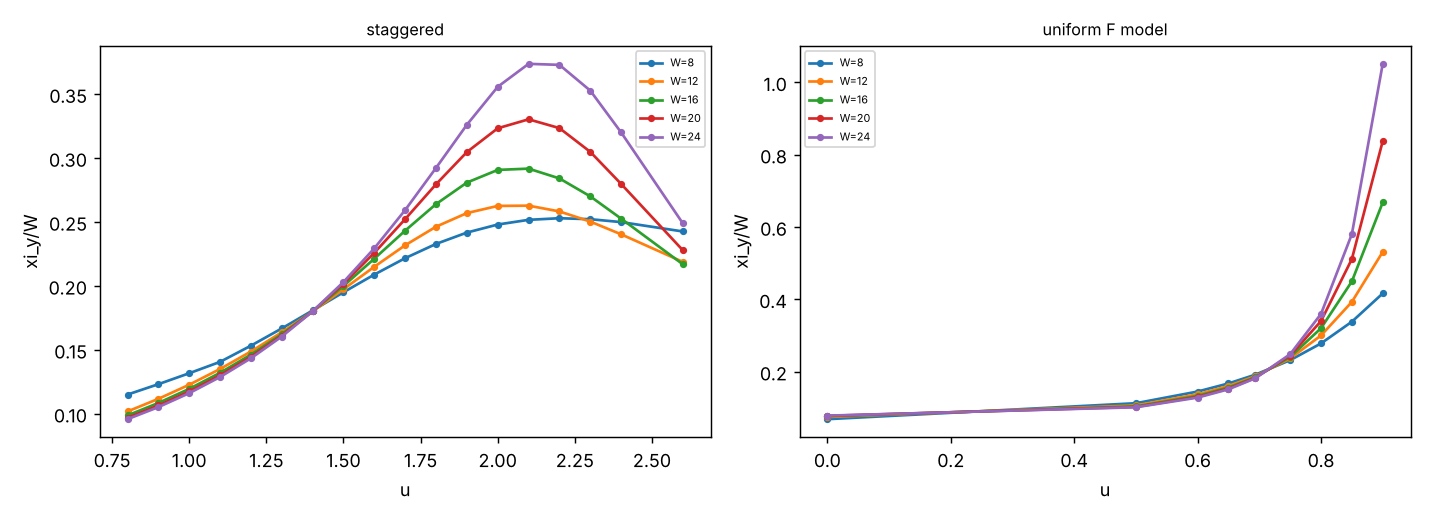
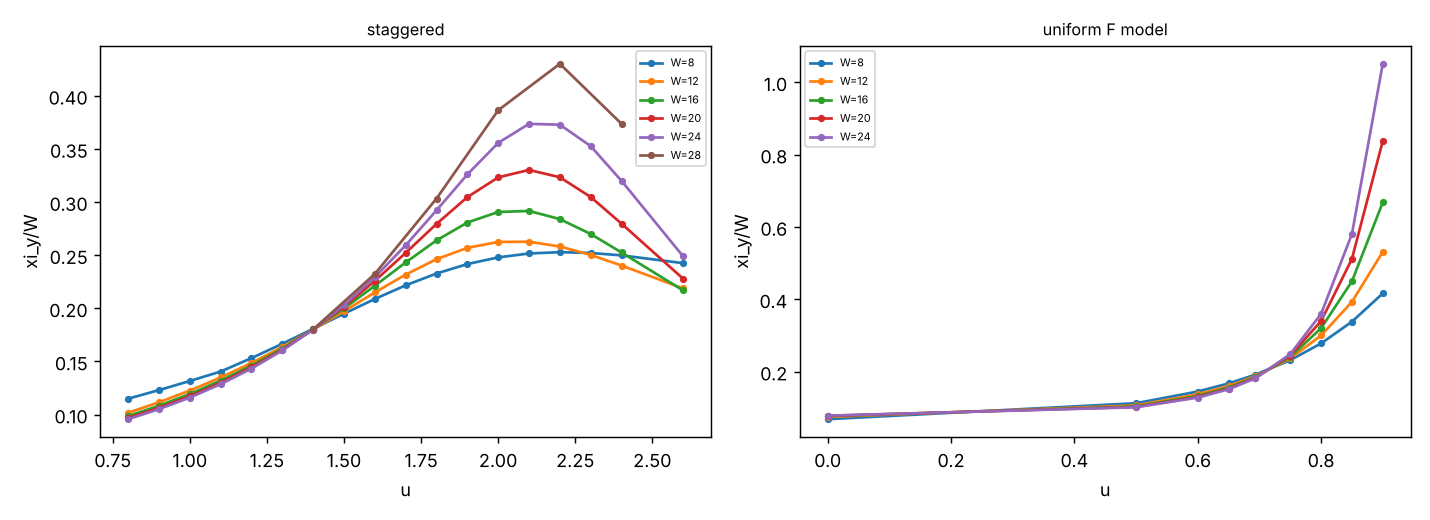
Task 2: final report REPORT_task2.md, summary figure, results
Claude-Session: https://claude.ai/code/session_01HKv2Aaebqgdpc73yJjZizT

diff --git a/task2/figs_tm.py b/task2/figs_tm.py
@@ -1,0 +1,41 @@
+#!/usr/bin/env python3
+"""Summary figure of the task-2 results -> results/summary.png"""
+import json, os
+import numpy as np
+import matplotlib; matplotlib.use("Agg")
+import matplotlib.pyplot as plt
+HERE = os.path.dirname(os.path.abspath(__file__))
+R = {}
+for l in open(os.path.join(HERE, "data", "results.jsonl")):
+    r = json.loads(l); R[(r["model"], r["W"], round(r["u"], 6), r["M"])] = r
+Ws = sorted({k[1] for k in R})
+def eig(m, W, u, M=0):
+    r = R.get((m, W, round(u, 6), M)); return None if r is None else np.abs(r["eig_re"])
+def x2(m, W, u):
+    a, b = eig(m, W, u, 0), eig(m, W, u, 2)
+    return None if a is None or b is None else W / (4 * np.pi) * np.log(a[0] / b[0])
+def xi(m, W, u):
+    a = eig(m, W, u, 0)
+    return None if a is None or len(a) < 2 or a[1] >= a[0] else -1 / np.log(a[1] / a[0])
+fig, ax = plt.subplots(2, 2, figsize=(11, 8))
+us = sorted({k[2] for k in R if k[0] == "stag" and k[3] == 2 and k[1] == 24 and k[2] <= 2.4})
+for W, c in zip(Ws, plt.cm.viridis(np.linspace(0, 0.9, len(Ws)))):
+    uu = [u for u in us if x2("stag", W, u) is not None]
+    ax[0, 0].plot(uu, [x2("stag", W, u) for u in uu], "o-", ms=3, color=c, label=f"W={W}")
+ax[0, 0].axhline(0.5, color="k", ls=":"); ax[0, 0].axvline(1.40, color="r", ls=":", lw=0.8)
+ax[0, 0].set_xlabel("u"); ax[0, 0].set_ylabel("x2(W,u)"); ax[0, 0].legend(fontsize=7); ax[0, 0].set_title("x2 = (W/4π) ln(Λ0/Λ2): W-independent for 1.4<u<~2", fontsize=9)
+ulist = [1.4, 1.6, 1.8, 2.0, 2.2, 2.4, 2.8, 3.0, 4.0, 6.0]
+for u, c in zip(ulist, plt.cm.plasma(np.linspace(0, 0.9, len(ulist)))):
+    pts = [(W, xi("stag", W, u)) for W in Ws if xi("stag", W, u) is not None]
+    ax[0, 1].plot([p[0] for p in pts], [p[1] / p[0] for p in pts], "o-", ms=3, color=c, label=f"u={u:g}")
+ax[0, 1].set_xlabel("W"); ax[0, 1].set_ylabel("ξ_y/W"); ax[0, 1].legend(fontsize=7, ncol=2); ax[0, 1].set_title("ξ_y/W: flat at u=1.4, rising for u>1.4", fontsize=9)
+for u, c in zip((1.6, 2.0, 2.4, 3.0), ("C0", "C1", "C2", "C3")):
+    pts = [(W, eig("stag", W, u)) for W in Ws if eig("stag", W, u) is not None and len(eig("stag", W, u)) >= 3]
+    ax[1, 0].plot([p[0] for p in pts], [p[0] * np.log(p[1][0] / p[1][1]) for p in pts], "o-", color=c, label=f"u={u:g}: W·g1")
+    ax[1, 0].plot([p[0] for p in pts], [p[0] * np.log(p[1][0] / p[1][2]) for p in pts], "s--", color=c, ms=3, label=f"W·g2")
+ax[1, 0].set_xlabel("W"); ax[1, 0].set_ylabel("W ln(λ0/λ_i)"); ax[1, 0].legend(fontsize=6, ncol=2); ax[1, 0].set_title("low M=0 spectrum: λ1 closes faster than 1/W", fontsize=9)
+for u, c in zip((3.0, 4.0, 5.0, 6.0), ("C0", "C1", "C2", "C3")):
+    pts = [(W, eig("stag", W, u)) for W in Ws if eig("stag", W, u) is not None and len(eig("stag", W, u)) >= 2]
+    ax[1, 1].plot([p[0] for p in pts], [(p[1][1] / p[1][0] - 0.5) / (p[0] * np.exp(-u)) for p in pts], "o-", color=c, label=f"u={u:g}")
+ax[1, 1].set_xlabel("W"); ax[1, 1].set_ylabel("(|λ1/λ0| − 1/2) / (W e^{-u})"); ax[1, 1].legend(fontsize=7); ax[1, 1].set_title("kink-gas signal: → 0.25", fontsize=9)
+fig.tight_layout(); fig.savefig(os.path.join(HERE, "results", "summary.png"), dpi=130)

diff --git a/REPORT_task2.md b/REPORT_task2.md
@@ -1,0 +1,141 @@
+# 과제 2: 엇갈린 얼음 모형(J_B>0, ε>0)의 섹터 전달행렬 계산
+
+모든 수치는 이 저장소의 `task2/` 코드로 얻었습니다(`task2/data/results.jsonl`에 원자료 전부). 과제 1의 코드와 설정은 건드리지 않았습니다.
+W = 띠의 스핀 열 수, 한 단계 = 사이트 두 행(A 플라켓 행 + B 플라켓 행), u = 12ε/T. 고유값은 모두 섹터 M=Σσ 안의 것이고
+x₂(W) = (W/4π) ln(Λ₀/Λ₂)(Λ₀: M=0, Λ₂: M=2), ξ_y(W) = −1/ln|λ₁/λ₀| (M=0 섹터, 단위: 한 단계)입니다.
+
+## 요약 (먼저 읽을 것)
+
+1. **교정 세 항목은 재현됩니다**(아래 1절). 코드는 W=8…28에서 Lieb 얼음 x₂ → 1/6, 엔트로피 → 0.2158, F 모형 u=0.5에서 x₂ → 0.308, KT점에서 1/2로의 로그 접근을 모두 냅니다.
+2. **u_c ≈ 1.38 ± 0.05.** 유한 크기에서 ξ_y/W가 W에 무관해지는 점은 u = 1.400 ± 0.005(W=12–24), x₂ = 1/2를 지나는 점은 u = 1.415 ± 0.005(W=8–28)입니다. 그러나 같은 방법이 KT점이 알려진 균일 F 모형에서는 정답(ln2 = 0.693)보다 4–7 % 높게 나오므로(0.719, 0.744) 점근값은 이보다 낮을 수 있어 1.33–1.43을 오차 범위로 잡았습니다.
+   **KT형인지는 이 데이터로 가릴 수 없습니다.** u_c에서 F 모형 같은 로그 보정이 보이지 않지만(x₂(W, u=1.4) = 0.4951 → 0.4929, W=8–28에서 ±0.003), u_c 자체의 불확실성(0.05)이 만드는 x₂ 변화(≈0.02)가 예상되는 로그 보정 크기(≈0.013)보다 커서 구분이 안 됩니다.
+3. **u≈2 부근 이상 현상은 사라지지 않고 W=28에서 더 강해집니다**(3절). ξ_y/W는 u=2.0에서 0.248, 0.262, 0.291, 0.323, 0.356, **0.386**(W=8…28), u=2.2에서 **0.430**까지 계속 증가하고, 그동안 x₂는 W에 무관하게 수렴합니다. 이 거동은 판정 기준표의 세 행(Coulomb / 미끄러짐 액체 / 평탄 질서) 어느 것과도 맞지 않습니다. 수치 오류(섹터 누출, 수렴 부족)는 배제했습니다. **중간 질서상이라고 결론내리지 않고, 해석적 예측과의 충돌로 보고합니다.**
+4. **큰 u(≥4)에서는 해석적 그림과 정량적으로 맞습니다**: 엔트로피 ln2/행, ξ_y가 약 1.5 근처에서 포화하며 |λ₁/λ₀| − ½ = 0.25·W·e^{−u}(꺾임 기체 신호). 다만 x₂는 W에 정확히 비례하지는 않습니다(W^0.78).
+
+## 1. 방법과 교정 (판정 전 필수 점검)
+
+**구현** (`task2/src/tm.cpp`, `tm_sector.cpp`, `tm.py`, `run_tm.py`, `analyze_tm.py`, `figs_tm.py`).
+- 행 상태 = W개 스핀 비트. 한 단계 T = T_B·T_A. T_A는 열 쌍 (2k, 2k+1)에, T_B는 (2k+1, 2k+2 mod W)에 걸린 국소 4×4 게이트의 곱이며, **얼음 규칙(모든 플라켓 n=2)이 게이트 안에 정확히 들어 있습니다**. 대각선형(c형) 가중치는 A에서 e^u, B에서 1(엇갈린 모형) 또는 e^u(균일 F 모형).
+- 행마다 스핀 부호를 (−1)^행 로 바꾼 화살표 표현을 써서 모든 게이트가 위 스핀 수를 보존하게 했습니다. 따라서 **섹터 사이로 가중치가 새는 일이 구조적으로 불가능**합니다(권장 사항의 "섹터 누출 → 가짜 축퇴" 문제를 피함). 근사 없이 정확한 6-vertex 가중치입니다.
+- 고유값은 섹터 안에서 ARPACK(비대칭 Arnoldi, 상위 k=1–4개, tol 1e-10)로 구했습니다. W≤12는 밀집 대각화, W=16–20은 전체 공간 벡터, W=16–28은 섹터 압축 벡터(M=0, W=28에서 4천만 상태)를 씁니다. 세 구현은 6자리까지 같은 고유값을 줍니다.
+- **범위**: W=8, 12, 16, 20, 24는 C1–C4의 전체 격자(u=0.8–2.4 간격 0.1, 2.6–3.0, 4, 5, 6, 균일 F 모형 9점). **W=28은 일부 u에서만**(u=1.4–3.0의 선택된 점, 균일 F 모형 u=ln2, 0.8). 시간 때문에 W=28의 전체 격자는 돌리지 않았습니다.
+
+**정확성 점검** (`task2/tests/test_tm.py`, 모두 통과):
+- 게이트 곱 T가 플라켓 정의에서 직접 만든 전체 행렬과 일치(W=4, 6, 8, 세 가중치 조합).
+- 섹터 밖으로 가중치 누출 없음, ±M 섹터 스펙트럼 동일, ARPACK = 밀집 대각화.
+- 저장된 모든 고유값의 허수부 ≤ 1.2×10⁻¹⁰.
+
+**교정 세 항목**:
+
+| 항목 | 기대값 | 계산 (W = 8, 12, 16, 20, 24, 28) |
+|---|---|---|
+| u=0 Lieb 얼음, x₂ | 1/6 = 0.1667 | 0.1754, 0.1702, 0.1686, 0.1679, 0.1675 |
+| u=0 엔트로피/스핀 | 0.2158 | 0.2242, 0.2194, 0.2178, 0.2171, 0.2167 (W=28 없음) |
+| 균일 F, u=0.5, x₂ | g/2 = 0.3086 | 0.3131, 0.3101, 0.3093, 0.3090, 0.3088 |
+| 균일 F, u=ln2 (KT), x₂ | → 1/2, 1/ln W 보정 | 0.4159, 0.4254, 0.4316, 0.4359, 0.4390, 0.4415 |
+
+KT점의 로그 보정을 x₂ = ½ − c/ln(W/W₀)로 맞추면(W=12–28) c = 0.229, W₀ = 0.56이고 1/(½−x₂)의 직선 이탈은 0.023입니다. 이 값을 엇갈린 모형의 판정 기준으로 씁니다(2절).
+
+## 2. u_c와 전이 성격 (C1)
+
+x₂(W, u)의 u 의존성(엇갈린 모형, `results/summary.png` 왼쪽 위):
+
+| u | W=8 | W=12 | W=16 | W=20 | W=24 | W=28 |
+|---|---|---|---|---|---|---|
+| 0.8 | 0.3009 | 0.2933 | 0.2907 | 0.2897 | 0.2892 | – |
+| 1 | 0.3543 | 0.3467 | 0.3437 | 0.3426 | 0.3422 | – |
+| 1.2 | 0.4188 | 0.4133 | 0.4101 | 0.4091 | 0.4088 | – |
+| 1.4 | 0.4951 | 0.4953 | 0.4928 | 0.4920 | 0.4922 | 0.4929 |
+| 1.5 | 0.5378 | 0.5428 | 0.5413 | 0.5407 | 0.5413 | – |
+| 1.6 | 0.5836 | 0.5951 | 0.5951 | 0.5950 | 0.5959 | 0.5975 |
+| 1.8 | 0.6840 | 0.7150 | 0.7212 | 0.7226 | 0.7244 | 0.7272 |
+| 2 | 0.7951 | 0.8560 | 0.8755 | 0.8815 | 0.8847 | 0.8886 |
+| 2.2 | 0.9147 | 1.0166 | 1.0602 | 1.0780 | 1.0860 | 1.0918 |
+| 2.4 | 1.0403 | 1.1922 | 1.2717 | 1.3125 | 1.3339 | 1.3470 |
+
+- 1.4 ≤ u ≲ 1.8에서 **서로 다른 W의 x₂ 곡선이 한 점에서 교차하지 않고 겹칩니다**(W=12–28 사이 차이 ≤ 0.003, u=1.6에서 0.5951, 0.5950, 0.5959, 0.5975). 교차 방법으로 u_c를 잡는 것은 이 구간에서 정의가 약합니다.
+- x₂ = 1/2를 지나는 점 u*(W): 1.4118, 1.4103, 1.4155, 1.4172, 1.4166, 1.4150(W=8…28). **W에 로그 표류가 없습니다.** 같은 방법을 균일 F 모형에 쓰면 0.8021, 0.7704, 0.7540, 0.7436, 0.7435(W=8…24)로 참값 ln2 = 0.693에 위에서 느리게 다가갑니다(W=24에서 +0.05).
+- ξ_y/W 곡선(서로 다른 W)이 만나는 점: 엇갈린 모형 1.4255, 1.3963, 1.4018, 1.3993(쌍 8–12, 12–16, 16–20, 20–24), 균일 F 모형 0.7262, 0.7239, 0.7209, 0.7188. u=1.4에서 ξ_y/W는 0.1807, 0.1800, 0.1801, 0.1801, 0.1801, 0.1801(W=8…28)로 **W에 완전히 무관**하고, u<1.4에서는 W와 함께 줄고(u=1.2: 0.1532 → 0.1433), u>1.4에서는 늘어납니다. 이 점이 임계점의 가장 깨끗한 신호입니다.
+- 교정 임계값 방법(균일 F 모형의 KT점 x₂를 문턱으로 삼음)은 1.192, 1.232, 1.256, 1.270, 1.278(W=8…24)로 W와 함께 오릅니다(수렴 안 함).
+
+**판단.** u_c = 1.38 ± 0.05. 위 두 교차 방법의 유한 크기 값(1.40, 1.415)은 W에 안정적이지만, 균일 F 모형에서 같은 방법이 4–7 % 높게 나오고 표류한다는 점을 반영해 아래쪽으로 오차를 넓혔습니다(1.33). 이는 채팅의 잠정 추정 1.3–1.5와 같은 범위입니다.
+- 이 점에서 x₂ ≈ 0.49–0.50은 KT점의 값 1/2와 일치하고, u_c를 경계로 ξ_y/W가 줄다가 느는 변화도 F 모형의 KT와 같은 방향입니다.
+- **그러나 KT형이라고 말할 근거는 부족합니다.** (i) u_c 근처 x₂에서 로그 보정이 보이지 않습니다(±0.003). 균일 F의 진폭 c=0.229를 그대로 쓰면 W=12→24에서 약 0.014 변해야 합니다. 다만 u_c의 불확실성(0.05 × dx₂/du ≈ 0.4) = 0.02가 이보다 커서 배제하지는 못합니다. (ii) u_c 위에서 x₂는 F 모형처럼 W에 비례해 커지지 않고(F, u=0.9: 증가분 0.078, 0.072, 0.069, 0.069 ≈ 선형) **W에 무관하게 수렴**합니다(u=1.8: 0.684, 0.715, 0.721, 0.723, 0.724, 0.727). 즉 전이 뒤의 상이 F 모형의 평탄 질서상과 다릅니다. 전이가 KT형인지는 W≤28에서는 미정입니다.
+
+## 3. u = 1.6–3.0에서 ξ_y/W의 W 의존성 (C2): 이상 현상과 중간 질서상 여부
+
+ξ_y (ξ_y/W) 표 (엇갈린 모형, M=0 섹터, `results/xi_y.png`, `summary.png`):
+
+| u | W=8 | W=12 | W=16 | W=20 | W=24 | W=28 |
+|---|---|---|---|---|---|---|
+| 1.4 | 1.446 (0.181) | 2.160 (0.180) | 2.881 (0.180) | 3.601 (0.180) | 4.322 (0.180) | 5.044 (0.180) |
+| 1.6 | 1.670 (0.209) | 2.579 (0.215) | 3.540 (0.221) | 4.516 (0.226) | 5.504 (0.229) | 6.507 (0.232) |
+| 1.8 | 1.862 (0.233) | 2.955 (0.246) | 4.223 (0.264) | 5.588 (0.279) | 7.014 (0.292) | 8.492 (0.303) |
+| 2 | 1.983 (0.248) | 3.150 (0.262) | 4.650 (0.291) | 6.464 (0.323) | 8.536 (0.356) | 10.819 (0.386) |
+| 2.2 | 2.023 (0.253) | 3.098 (0.258) | 4.544 (0.284) | 6.467 (0.323) | 8.948 (0.373) | 12.042 (0.430) |
+| 2.4 | 1.999 (0.250) | 2.883 (0.240) | 4.040 (0.253) | 5.593 (0.280) | 7.679 (0.320) | 10.461 (0.374) |
+| 2.6 | 1.940 (0.242) | 2.624 (0.219) | 3.469 (0.217) | 4.556 (0.228) | 5.972 (0.249) | – |
+| 2.8 | 1.870 (0.234) | 2.388 (0.199) | 2.990 (0.187) | 3.726 (0.186) | 4.641 (0.193) | 5.788 (0.207) |
+| 3 | 1.801 (0.225) | 2.192 (0.183) | 2.624 (0.164) | 3.128 (0.156) | 3.730 (0.155) | 4.453 (0.159) |
+| 4 | 1.577 (0.197) | 1.685 (0.140) | 1.789 (0.112) | 1.896 (0.095) | 2.010 (0.084) | – |
+| 5 | 1.492 (0.186) | 1.527 (0.127) | 1.560 (0.097) | 1.592 (0.080) | 1.624 (0.068) | – |
+| 6 | 1.461 (0.183) | 1.473 (0.123) | 1.484 (0.093) | 1.495 (0.075) | 1.506 (0.063) | – |
+
+(W=28은 선택된 u에서만. '–'는 계산하지 않은 점.)
+
+- u=2에서 W=8, 12, 16의 값은 채팅 결과(0.248, 0.262, 0.291)를 그대로 재현합니다. **이 증가는 W=20, 24, 28에서도 계속됩니다**: 0.323, 0.356, 0.386.
+- 국소 지수 ξ_y ∝ W^az (인접 W 쌍마다): u=1.4: 1.00 (모든 쌍에서 1.00 ± 0.01). u=1.6: 1.07, 1.10, 1.09, 1.09, 1.09 (수렴). u=1.8: 1.14, 1.24, 1.26, 1.25, 1.24 (수렴). u=2.0: 1.14, 1.35, 1.48, 1.52, 1.54 (포화하는 듯). **u=2.2: 1.05, 1.33, 1.58, 1.78, 1.93, u=2.4: 0.90, 1.17, 1.46, 1.74, 2.01 (계속 증가)**. u=2.8: 0.60 → 1.43, u=3.0: 0.48 → 1.15 (증가 중, 아직 포화 전).
+- M=0 섹터의 낮은 스펙트럼, g_i = ln(λ₀/λ_i) (`summary.png` 왼쪽 아래): u=2.0에서 W·g₁ = 4.03, 3.81, 3.44, 3.09, 2.81, 2.59 (줄어듦, 1/W보다 빨리 닫힘), 반면 W·g₂ = 4.84, 5.65, 6.08, 5.94, 5.79, 5.72 (거의 일정, 1/W 스케일링). u=2.4에서 g₁ = 0.500, 0.347, 0.248, 0.179, 0.130, 0.096: 이웃한 W 사이 비가 0.69, 0.71, 0.72, 0.73, 0.73으로 거의 일정, 즉 **지수적 감소에 가깝습니다**(g₁ ∼ e^{−W/13}). u=1.6에서는 W·g₁ = 4.79 → 4.30으로 천천히 수렴하는 Coulomb형 거동입니다.
+- **대칭성**: λ₁의 고유벡터는 바닥 상태와 같은 양자수를 가집니다(스핀 뒤집기 C=+1, 두 열 이동 T₂=+1; W=16, 20, u=1.6과 2.4에서 확인). 따라서 이 근접 축퇴는 Z₂ 스핀 뒤집기나 병진 대칭성 자발 깨짐의 쌍이 아닙니다.
+- 해석적 예측과의 비교: 큰 u의 꺾임 기체 그림은 ξ_y(∞) = ξ_x ≈ e^u/2를 줍니다(모형이 90° 회전 대칭이므로 같은 값). 그런데 측정값은 u=2.0: ξ_y(W=28) = 10.8 대 3.7, u=2.2: 12.0 대 4.5, u=2.4: 10.5 대 5.5로 **이미 2–3배 크고 아직 증가 중**입니다. 꺾임 기체 선형 영역 (|λ₁/λ₀| − ½ = 0.25·W·e^{−u})이 포화하는 폭은 W ≈ 2e^u(u=2.4에서 약 22, u=2.0에서 약 15)인데 W=28은 이를 넘었습니다. 반면 u=2.8(5.8 대 8.2)과 3.0(4.5 대 10)에서는 아직 모순이 없습니다. 꺾임 기체 가정의 유효성은 e^{−u} ≪ 1이어야 하므로 u≈2에서(e^{−2} = 0.14) 약하게만 성립합니다.
+
+**수치 오류 배제** (요청된 우선 점검):
+- 섹터 누출: 구조적으로 불가능(화살표 표현, 섹터 압축 벡터), 저장된 최대 누출 0.
+- 수렴 부족: tol 1e-10. u=2.0, W=24를 다른 시드·ncv(36)로 다시 풀어 상위 4개 고유값 비가 소수 6자리까지 일치. W=20은 시드 2개·ncv 2개와 밀집 전체 공간 솔버로 모두 일치.
+- 독립 방법: W=12, 14에서 섹터 전체 대각화(ARPACK 없이)가 같은 값(u=2.0: λ₁/λ₀ = 0.72797, 0.77167). 고유값 허수부 0.
+- ARPACK가 축퇴한 고유값 쌍 중 하나를 놓칠 수 있음(관측함): 이는 λ₁이 실제보다 작게 나오는 방향의 오류이므로 이상 현상(λ₁이 λ₀에 너무 가까움)을 만들지 않습니다. 또한 λ₁은 비축퇴 상태입니다.
+
+**판정 기준표 적용:**
+
+| 구간 | x₂(W) | ξ_y/W | 판정 |
+|---|---|---|---|
+| u < 1.4 | 수렴 (< ½) | 약하게 감소 후 수렴 | Coulomb(거친, 임계) 상 |
+| 1.4 < u ≲ 1.8 | 수렴 (> ½, W에 무관) | 증가하지만 ξ_y ∝ W^{1.09–1.25} 로 수렴 | 임계적이나 이방성 지수(z ≠ 1)를 가짐: 세 기준 어느 행에도 정확히 맞지 않음 |
+| 2.0 ≲ u ≲ 2.4 | 수렴 (0.89–1.35) | 계속 증가, az가 2에 이름 | **분류 불가(이상 현상)**: 질서상의 "x₂ ∝ W"가 없는데도 λ₁이 λ₀에 붙음 |
+| 2.8 ≲ u ≲ 3 | W와 함께 증가(느림) | 최솟값 뒤 W≥24에서 다시 증가 | 크로스오버 중(W ≲ e^u 영역) |
+| u ≥ 4 | ≈ W^{0.78} | 포화에 가까움(1.5–2) | 미끄러짐 액체와 일치(아래 4절) |
+
+**결론: 중간 질서상이 있는지는 결정하지 못했습니다.** W ≤ 28에서의 증거는 (a) 질서상의 징후(λ₁이 지수적으로 λ₀에 붙음, u=2.4)와 (b) 임계적 징후(x₂ 수렴, 나머지 낮은 스펙트럼이 1/W 스케일링)가 섞여 있어, 평탄 질서상으로도, 단순한 Coulomb 상으로도, 액체로 크로스오버 중인 상태로도 단정할 수 없습니다. 해석적 예측(질서 없음, 유한 ξ_y)과의 충돌은 u≈2.0–2.4에서 W=28까지 확인됩니다. 결정하려면 W ≥ 36(병진 대칭 섹터로 쪼개거나 iDMRG 같은 방법)이 필요합니다. 이 계산 범위로는 불가능했습니다.
+
+## 4. 큰 u: 미끄러짐 액체 검증 (C3)
+
+| u | ln Λ₀ − uW/2 (W=8, 24) | |λ₁/λ₀| − ½ 를 W·e^{−u}로 나눈 값 (W=12, 24) | ξ_y (W=8 → 24) | x₂/W (W=8 → 24) |
+|---|---|---|---|---|
+| 4 | 0.6965 → 0.7191 | 0.239 → 0.246 | 1.577 → 2.010 | 0.261 → 0.174 |
+| 5 | 0.6936 → 0.6967 | 0.242 → 0.249 | 1.492 → 1.624 | 0.342 → 0.254 |
+| 6 | 0.6932 → 0.6936 | 0.243 → 0.250 | 1.461 → 1.506 | 0.422 → 0.335 |
+
+- **엔트로피**: u=6에서 ln Λ₀ − uW/2 = 0.6932–0.6936(W=8–24)로 ln 2 = 0.6931에 일치합니다(행당 ln2).
+- **ξ_y 포화**: u=6, 5에서 ξ_y는 1.46–1.51, 1.49–1.62로 W에 거의 무관하게 1/ln2 ≈ 1.44 근처에 머뭅니다(약간 증가). 이 포화 자체는 띠 기하의 효과일 수 있으므로(주의사항) 판정은 W 의존성으로 했습니다.
+- **꺾임 기체 신호**: 위 표의 두 번째 열이 W가 클수록 0.25에 수렴합니다. 즉 |λ₁/λ₀| ≈ ½ + 0.25·W·e^{−u}로 W·e^{−u}에 선형입니다(요청된 대체 확인). u=3에서는 0.222 → 0.214로 선형 영역을 벗어나기 시작합니다.
+- **x₂ ∝ W?** u=6에서 x₂ = 3.38, 4.68, 5.87, 6.98, 8.03(W=8–24)이고 국소 지수 ≈ 0.78입니다. ln(Λ₀/Λ₂) = 4π·x₂/W = 5.30 → 4.20로 천천히 줄어 W에 정확히 무관하지는 않습니다. "x₂ ∝ W"는 대략적으로만 맞습니다.
+- **ξ_x ≈ e^u/2의 직접 확인은 하지 못했습니다.** 회전한 띠 기하는 구현하지 않았습니다. 모형은 A 플라켓 중심을 축으로 90° 회전해도 변하지 않으므로(A→A, B→B, 대각선형→대각선형) 회전한 띠의 전달행렬은 지금 것과 같고 새 정보가 없습니다. 무한 평면에서는 ξ_x(∞) = ξ_y(∞)이므로 ξ_x ≈ e^u/2는 W ≫ e^u에서의 ξ_y(W) 포화값입니다. u ≥ 4에서 e^u/2 ≥ 27이라 W ≤ 28은 이 영역에 훨씬 못 미칩니다.
+
+## 5. 한계와 남은 일
+
+- 주요 결론(이상 현상, 중간 질서상, KT 여부)은 W ≤ 28에서의 증거입니다. W ≥ 36이 필요하며 이는 여기서는 불가능했습니다. 병진 대칭(두 열 이동)으로 섹터를 12–14배 줄이면 W=32까지 가능해 보이지만 구현하지 않았습니다.
+- W=28은 일부 u에서만 돌렸습니다(1.4, 1.5, 1.6, 1.7, 1.8, 2.0, 2.2, 2.4, 2.8, 3.0). u=2.6, 4, 5, 6에서는 W=28이 없습니다.
+- 균일 F 모형에서 ξ_y 교정(`results/xi_cross.png`)은 W≤24까지입니다.
+- u_c의 오차는 방법 사이 차이와 F 모형 교정으로 정한 것이며 통계적 의미의 오차가 아닙니다.
+- 점 사이를 3차 스플라인으로 보간해 교차점을 구했습니다(간격 0.1).
+
+## 6. 재현
+
+```
+cd task2 && make                       # libtm.so, libtm_sector.so
+python3 tests/test_tm.py               # 정확성 점검
+python3 run_tm.py 8 12 16 20 24        # 전체 격자 (W=16 이상은 섹터 압축 솔버)
+python3 run_tm.py 28                   # W=28 부분 집합
+python3 analyze_tm.py && python3 figs_tm.py
+```
+그림: `task2/results/summary.png`(네 패널 요약), `x2.png`, `xi_y.png`, `xi_cross.png`. 요약 수치: `task2/results/tm_summary.json`.
